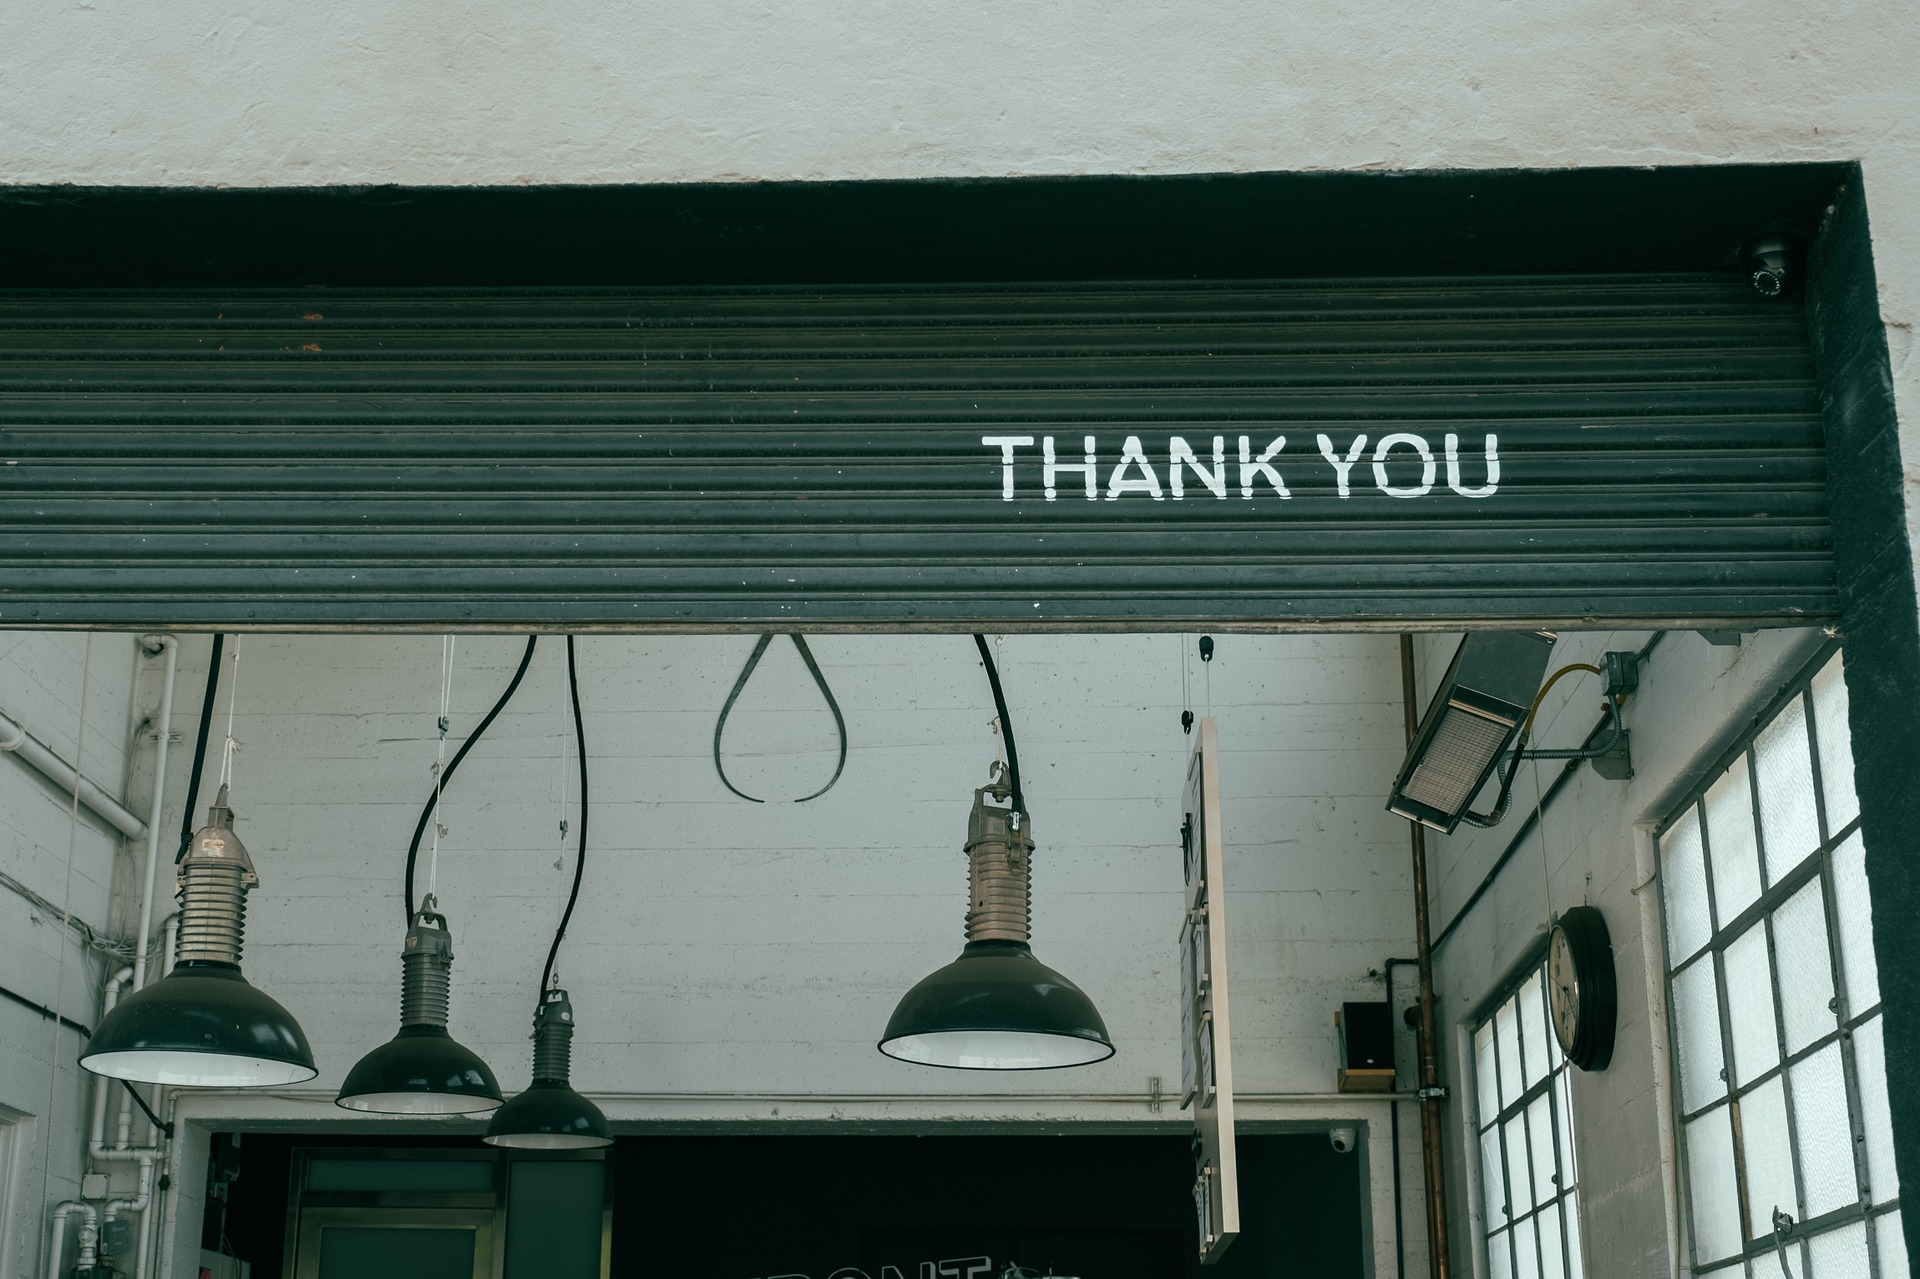
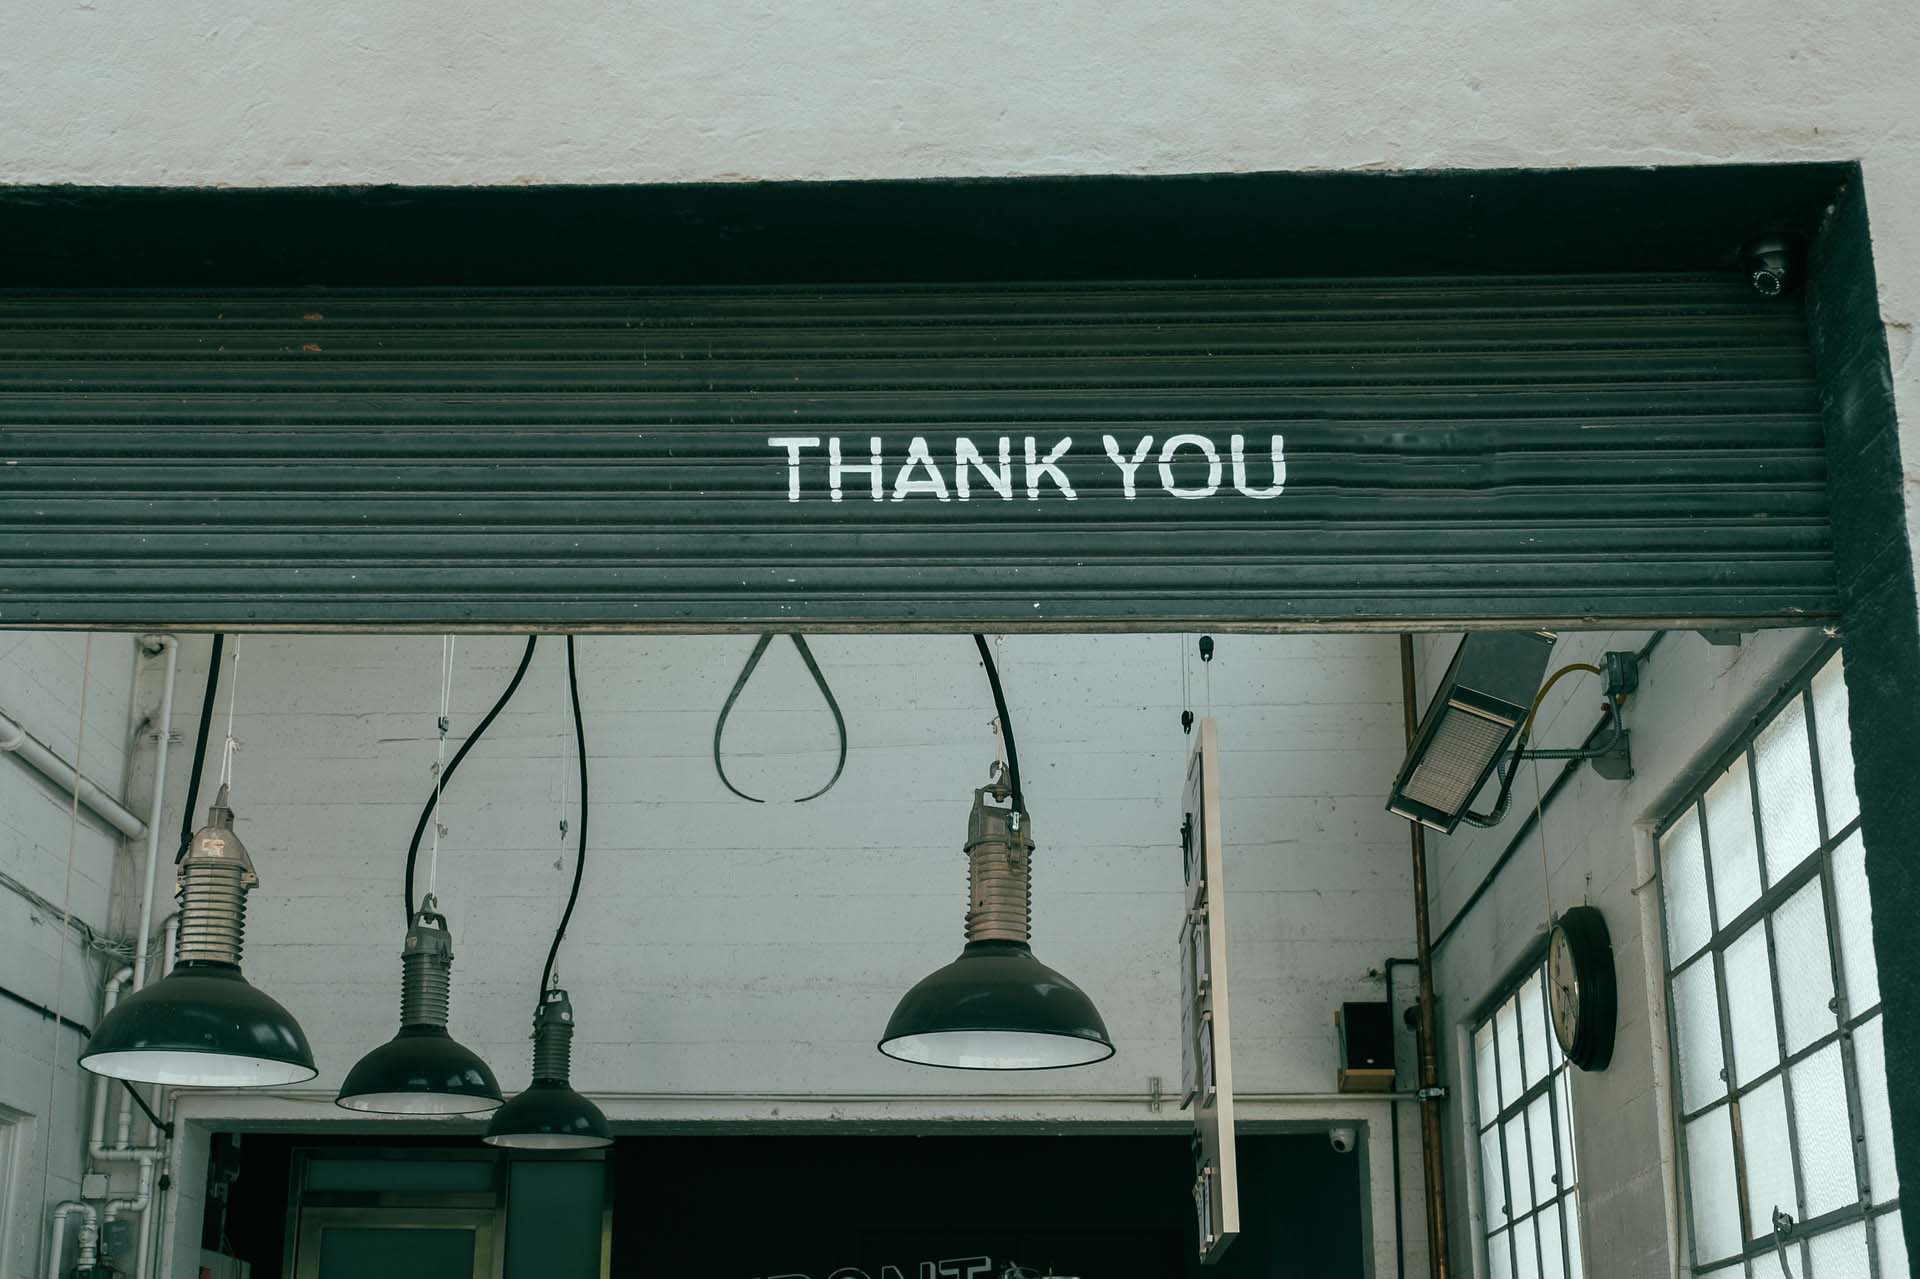
Add files via upload

Changed region(s): [[0.4062, 0.3354, 0.7812, 0.4269]]

diff --git a/team.html b/team.html
@@ -215,49 +215,6 @@
 
 
     <script  src="team.js"></script>
-<script>
-//slide smooth
-$(document).ready(function(){
-  // Add smooth scrolling to all links in navbar + footer link
-  $("a[href='#myPage'], a[href='#about'], a[href='#contact'], a[href='#gallery']").on('click', function(event) {
-    // Make sure this.hash has a value before overriding default behavior
-    if (this.hash !== "") {
-      // Prevent default anchor click behavior
-      event.preventDefault();
-      // Store hash
-      var hash = this.hash;
-      // Using jQuery's animate() method to add smooth page scroll
-      // The optional number (900) specifies the number of milliseconds it takes to scroll to the specified area
-      $('html, body').animate({
-        scrollTop: $(hash).offset().top
-      }, 900, function(){
-   
-        // Add hash (#) to URL when done scrolling (default click behavior)
-        window.location.hash = hash;
-      });
-    } // End if
-  });
-  
-  window.onscroll = function() {scrollFunction()};
-function scrollFunction() {
-    if (document.body.scrollTop > 20 || document.documentElement.scrollTop > 20) {
-        document.getElementById("myBtn").style.display = "block";
-    } else {
-        document.getElementById("myBtn").style.display = "none";
-    }
-}
-  
-  $(window).scroll(function() {
-    $(".slideanim").each(function(){
-      var pos = $(this).offset().top;
-      var winTop = $(window).scrollTop();
-        if (pos < winTop + 600) {
-          $(this).addClass("slide");
-        }
-    });
-  });
-})
-</script>
 
 <a href="#myPage" title="To top"><button type="button" class="btn btn-default btn-circle btn-lg"><i class="glyphicon glyphicon-chevron-up"></i></button></a>
 

diff --git a/sponsors.css b/sponsors.css
@@ -5,20 +5,36 @@ body, html {
     color: #818181;
 }
 
-#thankyou{  
-    background: url('thank_you.jpg') no-repeat;
-    height: 100%; 
-    background-size: 100%;
-    background-position: center;
-	font-family: 'Shadows Into Light', cursive;
-	font-size: 2.2em;
-	
+.wrapper {
+  height: 100%; 
+  width: 100%; 
+  background: url('thank_you.jpg') no-repeat;
+  background-position: center center;
+  background-repeat:  no-repeat;
+  /*background-attachment: fixed;*/
+  background-size:  cover;
+  background-color: #999;
 }
 
-#thankyou p{
-	color: azure;
-	
-}   
+.message {
+  -webkit-box-sizing: border-box;
+  -moz-box-sizing: border-box;
+  box-sizing: border-box;
+  width: 100%; 
+  /*height:45%;*/
+  bottom: 0; 
+  display: block;
+  position: absolute;
+  background-color: rgba(0,0,0,0.6);
+  color: #fff;
+  padding: 0.5em;
+}
+.message>p{
+  font-family: 'Shadows Into Light', cursive;
+  font-size: 1.6em;
+
+}
+
 #logos img {
     width: 100%;
     margin-bottom: 30px;    

diff --git a/sponsors.html b/sponsors.html
@@ -44,11 +44,12 @@
   </div>
   </nav>
 
-	<div id="thankyou" class="container-fluid">
-		<br><br><br><br>
-      <p >We at The Marine Robotics Team would like to thank you for kindly sponsoring our organisation.</p>
-		<p>We truly appreciate your continuous support and your very generous donation, your contribution will dramatically help us develop and succeed in future endeavours.</p>
-	</div>
+	<div class="wrapper">
+      <div class="message">
+        <p>We at The Marine Robotics Team would like to thank you for kindly sponsoring our organisation.</p>
+    <p>We truly appreciate your continuous support and your very generous donation, your contribution will dramatically help us develop and succeed in future endeavours.</p>
+      </div>
+    </div>
 	<div id = "logos" class = "container-fluid">
 
 		<div class="row">
